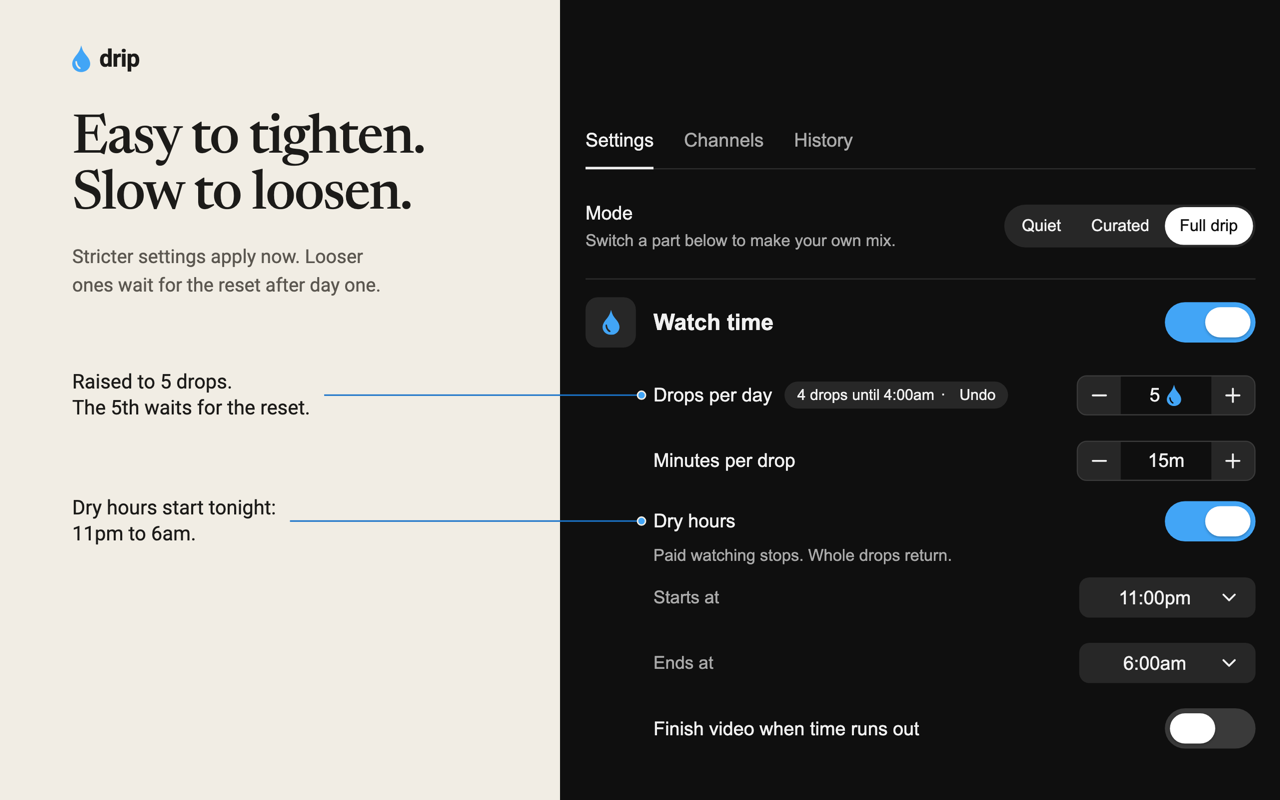
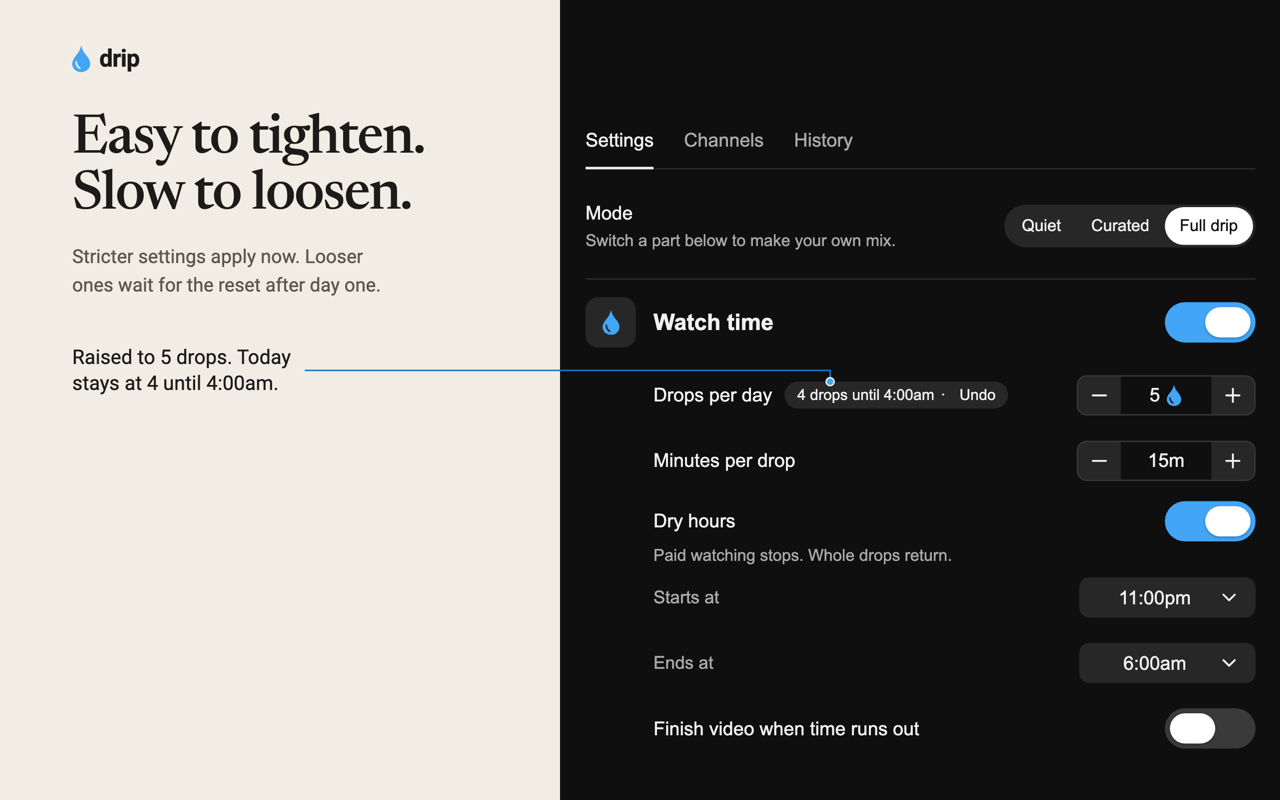
Store images council round 18: V beats A and B head to head; agreed fixes on V
Claude-Session: https://claude.ai/code/session_01BaVsJg78QBgFX9FYqzaUSR

Changed region(s): [[0.0625, 0.4375, 0.625, 0.5312], [0.0625, 0.625, 0.2188, 0.6875]]

diff --git a/store/art/frames-v2.html b/store/art/frames-v2.html
@@ -71,7 +71,7 @@
    * scale), CSS to put in the page, what has to exist before the step runs, an optional step, and notes. A note
    * names its target by selector or by exact text, and sits in the left column at the target's height when there's
    * room.
-   * @typedef {{sel?: string, text?: string, say: string, top?: boolean, under?: boolean, above?: number, at?: number, gap?: number, nodot?: boolean}} Note
+   * @typedef {{sel?: string, text?: string, say: string, top?: boolean, under?: boolean, above?: number, at?: number, gap?: number, nodot?: boolean, has?: string}} Note
    * A note with `at` has no target: it sits at that height with no leader, for a line about the whole page. One with
    * `under` sits below its target and reaches up to the target's bottom edge with a right-angled leader, for a target
    * whose row has other things to its left. One with `above` sits level with the gap that many page pixels over its
@@ -96,7 +96,7 @@
     },
     2: {
       h: 'When time\nruns out.',
-      p: 'Set a daily limit. When it\'s used up,\nthe video stops.',
+      p: 'An optional daily limit. When it\'s\nused up, the video stops.',
       src: '/dev/page.html?page=welcome#tour-4',
       // The tour's stage alone, full height, cropped past its blurred edges. It sits at 362 to 921 across and 231 to 729
       // down in the page.
@@ -159,7 +159,7 @@
     },
     3: {
       h: 'Three ways\nto use drip.',
-      p: 'Search only, one pick at a time,\nor daily watch limits.',
+      p: 'Start strict, or just\nhide the feed.',
       src: '/dev/page.html?page=welcome',
       w: 680, h2: 713, x: -32, y: -76, scale: 1.15,
       // The page's own logo and tagline repeat the frame's mark.
@@ -181,8 +181,7 @@
       ready: '[role=tab]',
       step: (d) => setTimeout(() => d.scrollingElement?.scrollTo(0, 0), 300),
       notes: [
-        { text: 'Drops per day', say: 'Raised to 5 drops.\nThe 5th waits for the reset.' },
-        { text: 'Dry hours', say: 'Dry hours start tonight:\n11pm to 6am.' },
+        { sel: '.chip', has: '4 drops', say: 'Raised to 5 drops. Today\nstays at 4 until 4:00am.', above: 9 },
       ],
     },
     5: {
@@ -215,6 +214,14 @@
 
   /** The element a note points at, by selector or by its exact text. @param {Document} d @param {Note} n */
   function target(d, n) {
+    // `has` picks, among the selector's visible matches, the first whose text contains it.
+    // Hidden copies are skipped: Settings repeats a section's chips in its folded header.
+    if (n.sel && n.has) {
+      return [...d.querySelectorAll(n.sel)].find((e) => {
+        const r = e.getBoundingClientRect();
+        return r.width > 0 && r.top > 0 && e.textContent?.includes(/** @type {string} */ (n.has));
+      }) || null;
+    }
     if (n.sel) return d.querySelector(n.sel);
     const all = [...d.querySelectorAll('body *')].filter((e) => e.textContent?.trim() === n.text);
     return all[all.length - 1] || null;

diff --git a/store/art/reviews/round-18-claude.md b/store/art/reviews/round-18-claude.md
@@ -1,0 +1,68 @@
+1. Pick table
+
+| Image | Pick | Why |
+|---|---|---|
+| 1 | V | It's the only one that shows the whole home page, including the 34m counter and the drop/card tokens, and it explains both tokens. A's crop cuts off the counter, and B's black "1" built around the page doesn't read as a 1. |
+| 2 | V | The wave that crosses from the caption panel into the page is the best single idea in V. The copy says exactly what happens. A2's "1h. then the water comes up." puts a lowercase word after the drop-period and doesn't show any water. |
+| 3 | A | The serif 3 is beautiful, and the three mode cards stay readable. V3 is accurate but it's the same split again. B3's condensed 3 and yellow ground shout. |
+| 4 | V | "Easy to tighten. Slow to loosen." is the best line in all three sets, and both leaders land on real controls. B4 diagrams the rule most clearly but looks crude. |
+| 5 | A | The teardrop terminal on the 4 echoes the drop, the ring sits on the real 41m, and "Sample week" is labeled. V5 has a dead cream gap through the middle. |
+| Tile | B | It reads instantly at 440x280, and the card leaning on the 1 has character. V's tile is a plain logo lockup. In A's tile, "drip" sits between the 1 and "video at a time," which breaks the sentence. |
+
+2. Overall pick: V
+
+Ship V as a whole set. Every claim matches the product, every image shows enough of the page to understand it, and the leader lines tie the copy to specific controls. That's what a store visitor scanning five thumbnails needs. A is the more distinctive set and wins two images on its own merits. Dropping A3 or A5 into V would still break the system, though: two layouts and two type scales in one carousel looks like indecision. I wouldn't mix. V's weakness is that a split caption panel next to a screenshot is the most common store layout there is. Section 4 is mostly about breaking that template feel.
+
+3. Scores for V
+
+| Image | Design | AI look |
+|---|---|---|
+| 1 | 7 | 4 |
+| 2 | 8 | 3 |
+| 3 | 7 | 4 |
+| 4 | 8 | 3 |
+| 5 | 6 | 5 |
+| Tile | 6 | 5 |
+
+4. What would get each V image to design 9 and AI look 2, highest impact first
+
+Across the set:
+- The template tell is that all five use the same 560/720 split with the headline, subline, and notes in the same place. Image 2 shows the fix: one drawn element crosses the seam. Give every image one. In 1, a drop falls from the logo toward the counter. In 4, the leader becomes a short hand-drawn arrow. In 5, the chart's dashed 48m line extends into the cream panel and ends at the note. Keep it to one element per image, drawn in the drop's blue.
+- The vertical rhythm leaves empty cream between the subline (about y300) and the notes (y440 to y700) in 1, 3, and 5. Either move each note to the height of its target and let the empty space be deliberate, or increase the headline size about 15% so the panel has weight.
+
+Image 1:
+- The token legend ("A drop is 15 minutes...", "A card reveals...") floats at mid-height and points at nothing. Move it to the top, level with the counter, and run two short leaders to the "2" and the "7" next to the drop and card icons. Then the image explains the tokens on screen instead of beside it.
+- The elbowed leader to Reveal next runs under the Watch button area. Route it straight across at y736 to the left edge of the Reveal next button.
+
+Image 2:
+- The brief says blue water rises. In the panel it's dark teal, and on the page side it's only a blurred gradient with bubbles and no surface line. Run one continuous water surface across both halves at the same height (around y630), in a blue close to the drop's.
+- "Set a daily limit" reads as mandatory. "Set a daily limit if you want one" or "With a daily limit on, ..." keeps it honest at no cost.
+
+Image 3:
+- The headline duplicates the page's own question. Give the subline the selling point instead, for example "Start strict, or just hide the feed." Add a third note at the Quiet card, "Search only, nothing else," so the notes cover the choice and not only the default.
+
+Image 4:
+- The first leader ends on the dot beside "Drops per day," but the point of the image is the "4 drops until 4:00am · Undo" pill. End the leader on the pill and outline the pill in blue. Rewrite the note as "Raised to 5. Today stays at 4 until the 4:00am reset."
+- "Dry hours start tonight" is a second idea that weakens this image's one message. Cut it, or make it "Dry hours: 11pm to 6am" and drop "tonight."
+
+Image 5:
+- This is the weakest image. Move the note up beside the chart, aimed at the dashed line: "Down from 48 minutes the week before." Or aim it at the Friday spike. Keep the Saturday note at the bottom. Drop "exactly." It sounds like copy filler.
+- Consider scaling the page up 10% and cropping off the top "Last week" bar. The chart is the content.
+
+Tile:
+- Right now it's a logo with a tagline and a wave under it, the default promo tile. Raise the wave so the drop falls into the water, with a small splash or ripple where it meets. That makes the tile about the product's single idea. Or set the gold card beside the drop so both tokens appear. Keep "One video at a time." and set "drip" slightly smaller so the drop leads.
+
+5. What cost the other two sets the most
+
+A: the slab crop hides the product. The page enters from the top right and loses its top and right edges. A1 loses the 34m counter and the top of the thumbnail, and A3 loses the Next button. Meanwhile the numeral takes about 40% of the canvas. The copy is also forced to read as "numeral + period + phrase," which produces "1h. then the water comes up." The ring isn't consistent either: it's on 1, 2, and 5 but missing on 3 and 4.
+
+B: the shapes look arbitrary and the type looks default. The flag-and-bar "1" in B1, the stretched oval in B2, and the slab "7" in B5 read as random black and blue blocks rather than symbols. The bold grotesk looks like system Arial. All of it fights the "restraint should feel good" tone. B5 also shows an empty dark strip on the left of the page panel, which looks like a rendering mistake.
+
+6. Rejection or misleading risks
+
+- None of the sets shows a YouTube logo, and the drawn thumbnail avoids third-party content. V1's "A Chrome extension for YouTube" is nominative use, which is fine.
+- V1, A1, and B1 say the next pick costs a card. In Curated mode, new videos come "as many as you want," so the card cost only applies in Full drip. That's a minor overclaim on the first image a visitor sees. Consider "With Full drip, the next pick costs a card," or rely on the mode screen.
+- A2's "1h" headline could read as drip imposing a one-hour cap. The subline "Limits are optional" saves it, but it's small and gray. V2's "Set a daily limit" has the same softer issue.
+- The History sample data is labeled in all three: V5 in the subline, A5 and B5 explicitly. The numbers check out. 41 against 48 is a 14.6% drop, which rounds to 15%, and Saturday, Nov 7 2026 really is a Saturday. 30 minutes equals 2 drops of 15.
+- The B tile uses a white drop, while every screenshot uses blue. If the extension's icon is the blue drop, the tile won't match the icon next to it in the store.
+- Nothing else looks like grounds for rejection. The claims about tightening and loosening are correct in V4, A4, and B4.

diff --git a/store/art/reviews/round-18-codex.md b/store/art/reviews/round-18-codex.md
@@ -1,0 +1,51 @@
+| Image | Pick | Why |
+|---|---|---|
+| 1 | V | Best introduction: explains YouTube, shows the recommendation, and defines both tokens. |
+| 2 | V | Makes the stopping point, water effect, and option to continue understandable together. |
+| 3 | V | Gives the three modes a clear headline and explains the default allowance. |
+| 4 | B | The minus/plus comparison communicates the timing rule fastest, with a useful settings crop. |
+| 5 | V | Connects the weekly trend to a concrete day and its token use. |
+| Tile | V | Strongest small-format hierarchy: recognizable drop, readable name, clear promise. |
+
+Overall pick: V. Ship it as one system. Its calm framing fits the product, and it explains an unfamiliar mechanism without making the viewer solve a visual puzzle. I would carry B4’s concise explanation into V4, while keeping V’s visual system.
+
+V’s weakness is density. Several images feel like annotated help pages. It needs fewer notes and more selective crops.
+
+| Image | Design | AI look |
+|---|---|---|
+| 1 | 8 | 2 |
+| 2 | 8 | 3 |
+| 3 | 7 | 3 |
+| 4 | 7 | 3 |
+| 5 | 8 | 2 |
+| Tile | 8 | 2 |
+
+The AI-look scores reflect formulaic composition and decorative treatment, not evidence about how the images were made.
+
+Changes to bring V to design 9 and AI look 2, ordered by impact:
+
+1. Image 4: Focus entirely on the delayed increase. Crop and enlarge the watch-time controls so “4 drops until 4:00am” and the new value of 5 are unmistakable. Remove the dry-hours note and lower settings from the composition. Use “Tighter now. Looser next reset.” with “After your first day” directly beneath it. This currently asks viewers to read the most while giving them the smallest relevant detail.
+
+2. Image 3: Remove the second introduction on the left. “Three ways to use drip” already explains the premise; the subline repeats the choices visible in the page. Keep one annotation: “Full drip starts with 60 minutes and 10 cards a day.” Keep Customize visible without its own leader line. This makes the modes the main event.
+
+3. Image 1: Reduce the left-side explanation to the product sentence and one compact token key: “Drop = 15 minutes by default. Card = one new pick.” Shorten the bottom note to “Another pick costs one card.” Move that note closer to Reveal next so the leader line does less traveling. Preserve the balance display and the full video card.
+
+4. Image 2: Put optionality in the main copy: “An optional daily limit. A clear stopping point.” Keep the continuation note beside the +15m action. Remove the bottom-left explanatory sentence and the isolated bubbles. Let the water crossing the composition demonstrate the effect. The current three separate explanations dilute a strong scene.
+
+5. Image 5: Shorten the subline to “Sample week: 41 minutes a day, down 15%.” Bring the Saturday annotation closer to the selected-day summary and shorten its line. Keep the daily token totals visible. The chart and selected-day detail already provide enough evidence; the framing can be quieter.
+
+6. Tile: Enlarge “One video at a time” slightly and tighten the space between the drop and wordmark. Reduce the wave’s height so it reads as a small brand detail. This needs refinement, not a new concept.
+
+What cost the other sets most:
+
+- A: The numeral controls the composition instead of the product benefit. The enormous 1 pushes the home balance out of view; 41m consumes space that could show the selected-day detail. The typography looks deliberately designed, but the same device becomes restrictive across five different messages.
+- B: The symbols demand more attention than the extension. The huge oval, 3, and 7 make the set feel loud and promotional. That works against the promise that restraint should feel good. B4 succeeds because its symbols explain an actual rule.
+
+Potentially misleading or rejection-sensitive details:
+
+- A2’s enormous “1h” can read as a fixed product limit. Its default-limit and optionality qualifier is present, but much weaker visually.
+- B3’s “Choose your amount” describes a quantity choice, while the page primarily offers modes. “Choose your mode” would match the visible action.
+- A’s blue rings can look like keyboard focus indicators inside the extension. Keep added emphasis visibly separate from the captured interface.
+- V1 is the only opening image that explicitly identifies a Chrome extension for YouTube. A1 and B1 could leave a new viewer unsure whether this is an extension or a standalone video app.
+- V5, A5, and B5 all label the history as sample data. The 41-versus-48-minute comparison supports the rounded 15% decrease.
+- I see no obvious rejection trigger in the attached artwork. These are visual and claim-consistency findings; I did not check current store policies, run the extension, or inspect its code.

diff --git a/store/art/STATE.md b/store/art/STATE.md
@@ -13,11 +13,11 @@ The `/council` run on drip's store images, started 2026-11-09. `/council continu
 
 ## Current
 
-- Round: 17 done, the divergent round (Jesse picked it 2026-11-09 after round 16). Round 18 next: the head-to-head comparison.
-- Tactic: divergent, level 1. Claude and Codex each proposed one layout far from v2 (`reviews/round-17-divergent-claude.md`, `-codex.md`); Muse was out of quota. Both landed on one huge number per image on their own. Built as `frames-v3.html`: A, "one number per image" (paper, Fraunces numerals with a blue drop as the full stop, the page as a slab from the top right, a blue ring on the matching number in the UI), and B, "finite posters" (flat blue, gold, and ink, Anton symbols built around or behind the page, no notes). `capture.sh v3` writes `store/images-v3/a-*` and `b-*`. v2 stays as the third option.
-- Departures from the proposals, so the comparison is fair: A's captures run at 1.15 to 1.7 instead of 1.0 to 1.15, so the slabs aren't mostly empty; B's lock has a drawn water band, not a second crop of the real water; B's welcome box is the page's width, not 880px.
-- Muse: 86% of its 5-hour window at 17:02, resets about 21:04 on 2026-11-09.
-- Next step: round 18, Jesse's go. Each seat gets all three sets (v2, A, B) side by side and picks one per image and one overall, with the reason, then scores the set it picked. The winner becomes the base and fix rounds resume on it.
+- Round: 19 next (a fix round on V), waiting on Jesse.
+- Tactic: fix, on V. Round 18's head-to-head between V (v2), A, and B, run with Claude and Codex only (Jesse, 2026-11-09), went to V from both seats as a whole set. Codex took B for Settings alone; Claude took A for Modes and History and B for the tile, but said mixing sets looks like indecision. So the divergent round confirmed the base instead of replacing it, and showed the Claude seat's AI-look floor is not the layout alone: it still names V's split as the most common store layout, and it scored V lower in this round (design 6 to 8, AI look 3 to 5) than in the fix rounds.
+- Base: `frames-v2.html` with round 18's agreed fixes (this commit). A and B stay in `frames-v3.html` and `store/images-v3/`.
+- Muse: out of quota until about 21:04 on 2026-11-09; it hasn't seen A or B.
+- Next step: Jesse's call. Level 2 of the stall rule applies (a divergent round, and the Claude seat still stuck): another divergent round, a different goal, or different seats.
 
 ## Score history
 
@@ -38,12 +38,28 @@ Design/AI look per image. Rounds 12 and 13 are from the two-judge loop, for refe
 | 16 | Claude | 8/3 | 7/4 | 7/3 | 8/2 | 7/3 | 7/4 |
 | 16 | Codex | 9/1 | 8/2 | 8/1 | 8/1 | 9/1 | 9/1 |
 | 16 | Muse | 7/4 | 6/5 | 8/3 | 6/3 | 7/3 | 7/3 |
+| 18 | Claude (V, in comparison) | 7/4 | 8/3 | 7/4 | 8/3 | 6/5 | 6/5 |
+| 18 | Codex (V, in comparison) | 8/2 | 8/3 | 7/3 | 7/3 | 8/2 | 8/2 |
 
 Measured noise, Claude seat, identical images (round 13): one point on design, one on AI look, two on the tile.
 
 ## Decisions log
 
 What the next brief's "Decisions so far" draws on. Newest first.
+
+### Round 18: head-to-head, then triage on V
+
+Picks per image (Claude / Codex): 1 V/V, 2 V/V, 3 A/V, 4 V/B, 5 A/V, tile B/V. Overall: V from both.
+
+Applied on V, Agreed:
+- 2: the subline says the limit is optional: "An optional daily limit. When it's used up, the video stops." (Codex for the third round running; Claude: "Set a daily limit" reads as mandatory).
+- 3: the subline stops listing the modes the page already shows: "Start strict, or just hide the feed." (Codex: the subline repeats the page; Claude suggested this line).
+- 4: one message. The Dry hours note is gone, and the remaining note points at the "4 drops until 4:00am · Undo" chip, dropping onto it from the gap above its row: "Raised to 5 drops. Today stays at 4 until 4:00am." (Codex: focus on the delayed increase; Claude: end the leader on the chip, cut Dry hours). A note can now name a target by selector plus text (`has`), skipping hidden copies: Settings repeats a section's chips in its folded header.
+
+Considered, not applied (one seat, or the seats disagree):
+- Claude: one drawn element crossing the seam on every frame; the legend at the top with leaders to the counter; one water surface across 2; a Quiet note on 3; a note on 5's dashed line; the tile's drop falling into the wave. "The next pick costs a card" holds only in Full drip (the frame shows Full drip, so it stays).
+- Codex: a compact token key on 1; one note on 3 and no Customize leader; 5's subline as "down 15%"; a smaller wave on the tile.
+- The tile: Codex wants the wave smaller, Claude wants it bigger with the drop falling in.
 
 ### Round 16 triage
 

diff --git a/store/art/reviews/round-18-prompt.md b/store/art/reviews/round-18-prompt.md
@@ -1,0 +1,44 @@
+You are one judge on a panel choosing between three designs for a set of Chrome Web Store listing images. Do not edit or create any files. Report only. Judge only what you see in the attached images; you are not told any earlier scores or what other judges think.
+
+## The product
+
+drip is a Chrome extension that replaces YouTube's endless home feed with a search box or one recommended video at a time, with optional daily watch-time limits. Its tokens are a blue cartoon "drop" (15 minutes of watching, by default) and a gold cartoon "card" (reveals one new video). When the minutes run out, a lock comes up over the video with blue water rising. The tone it aims for: a little character without being distracting; restraint should feel good.
+
+## The three sets, attached in this order
+
+Each set has five 1280x800 screenshots and one 440x280 promo tile, showing the same five pages of the real extension (rendered from the real code, with sample data): 1 the home page with one revealed video (a drawn thumbnail, on purpose), 2 the lock screen, 3 the welcome page's mode choice, 4 Settings with a raised limit waiting for the daily reset, 5 History (a labeled sample week).
+
+- Set V (v-screenshot-1.png to v-screenshot-5.png, v-tile.png): a cream caption panel on the left with a serif headline, a subline, and notes joined to the page by thin blue leader lines; the page as a full-height dark strip on the right.
+- Set A (a-screenshot-1.png to a-screenshot-5.png, a-tile.png): one huge serif numeral per image with a blue drop as its full stop and a short phrase; the page as a slab from the top right; a blue ring on the place in the page that holds the number.
+- Set B (b-screenshot-1.png to b-screenshot-5.png, b-tile.png): flat blue, gold, or ink grounds, one huge symbol per image built around or behind the page, short bold text, no notes.
+
+The pages themselves can't change; only the framing, captions, crop and scale, drawing, and sample data can. Claims must match the product: limits are optional, a looser setting waits for the daily reset after the first day, a tighter one applies at once, sample data is labeled.
+
+## What to report
+
+1. A pick table, exactly in this form, one row per image, naming V, A, or B and a one-line reason:
+
+| Image | Pick | Why |
+|---|---|---|
+| 1 | ? | ... |
+...
+| Tile | ? | ... |
+
+2. Your overall pick: the one set to ship, as a whole set (a listing should look like one system, so mixing sets is a weaker answer; say so if you'd still mix and why).
+
+3. Scores for every image in your overall pick, in this form:
+
+| Image | Design | AI look |
+|---|---|---|
+| 1 | n | n |
+...
+
+Design: 1 to 10, where 10 is a top-tier store listing image. AI look: 1 to 10, where 1 looks made by a human designer with intent and 10 looks obviously AI-generated or templated.
+
+4. For your overall pick: what would get each image to design 9 and AI look 2, ordered by impact, concrete enough to act on.
+
+5. For the two sets you didn't pick: the one thing that cost each one the most.
+
+6. Anything in any set that could get the listing rejected or look misleading.
+
+Be direct and critical. Plain text.
